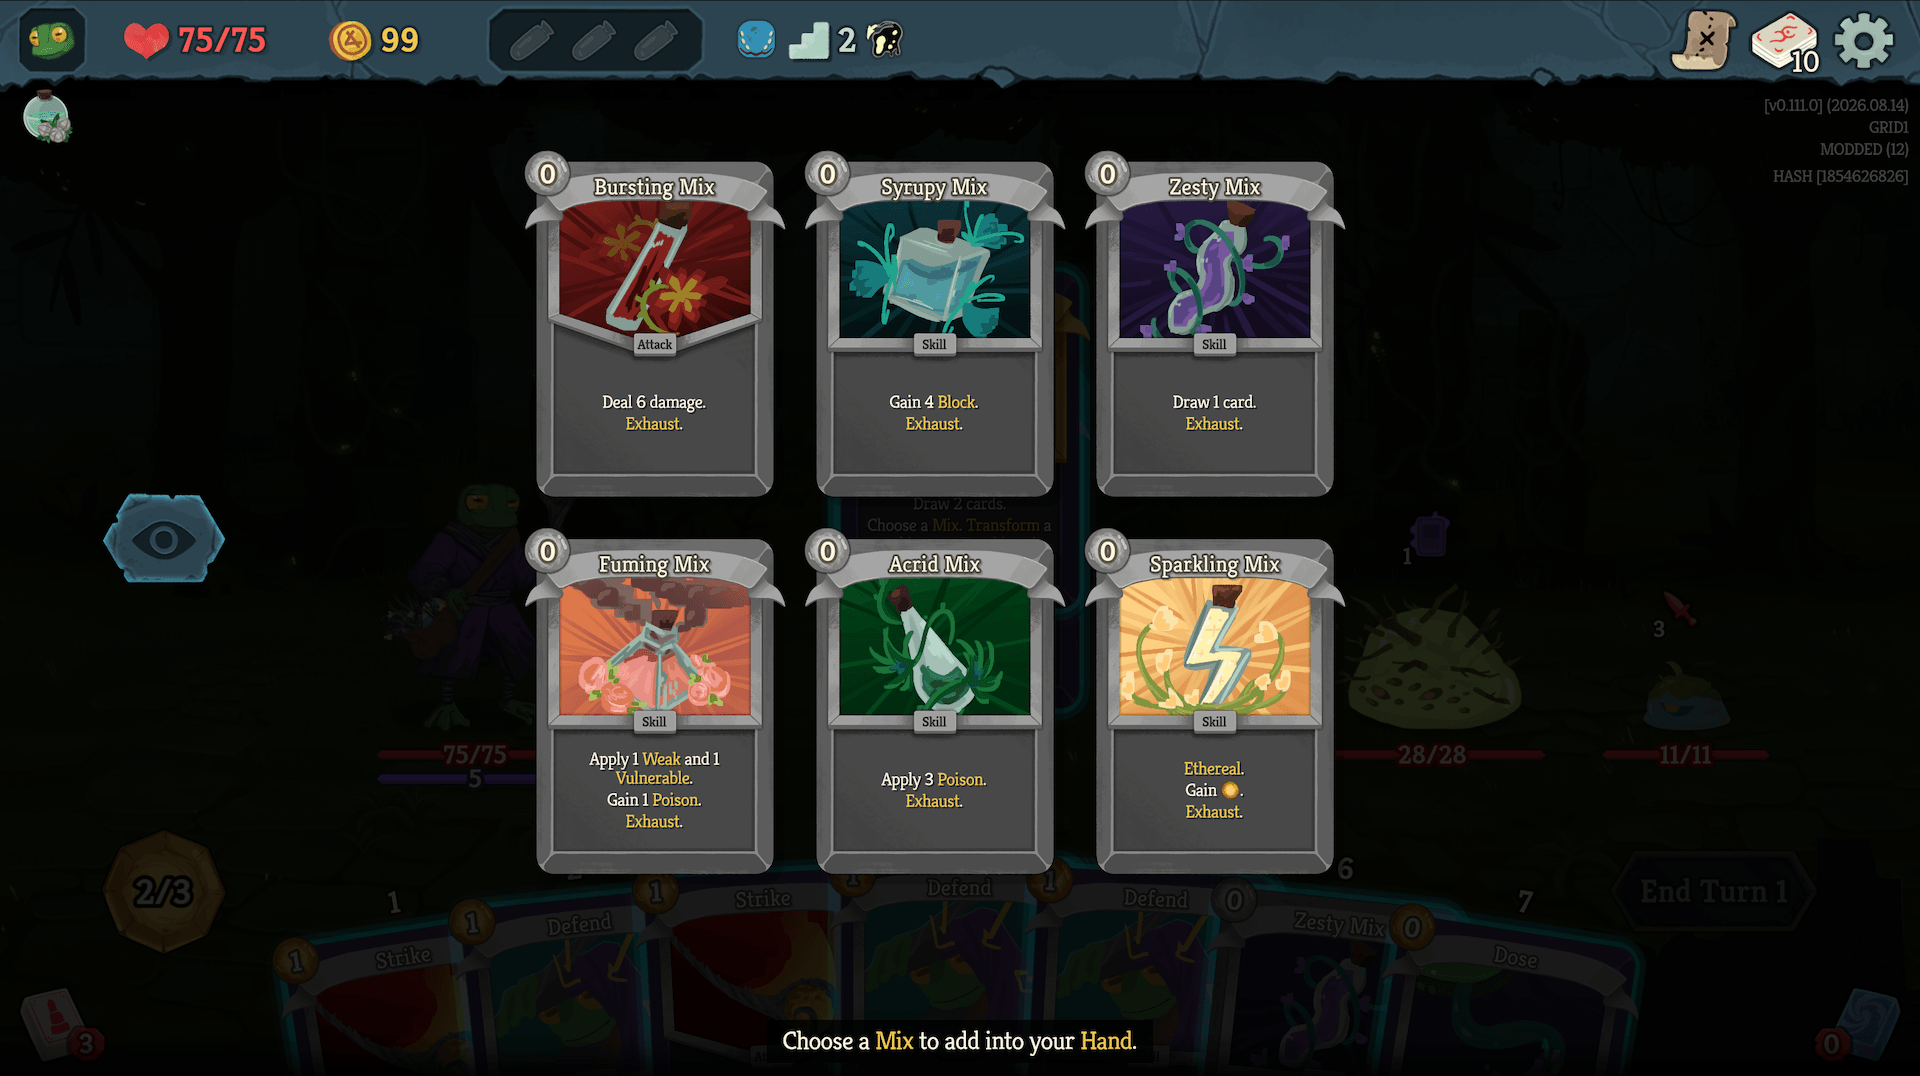
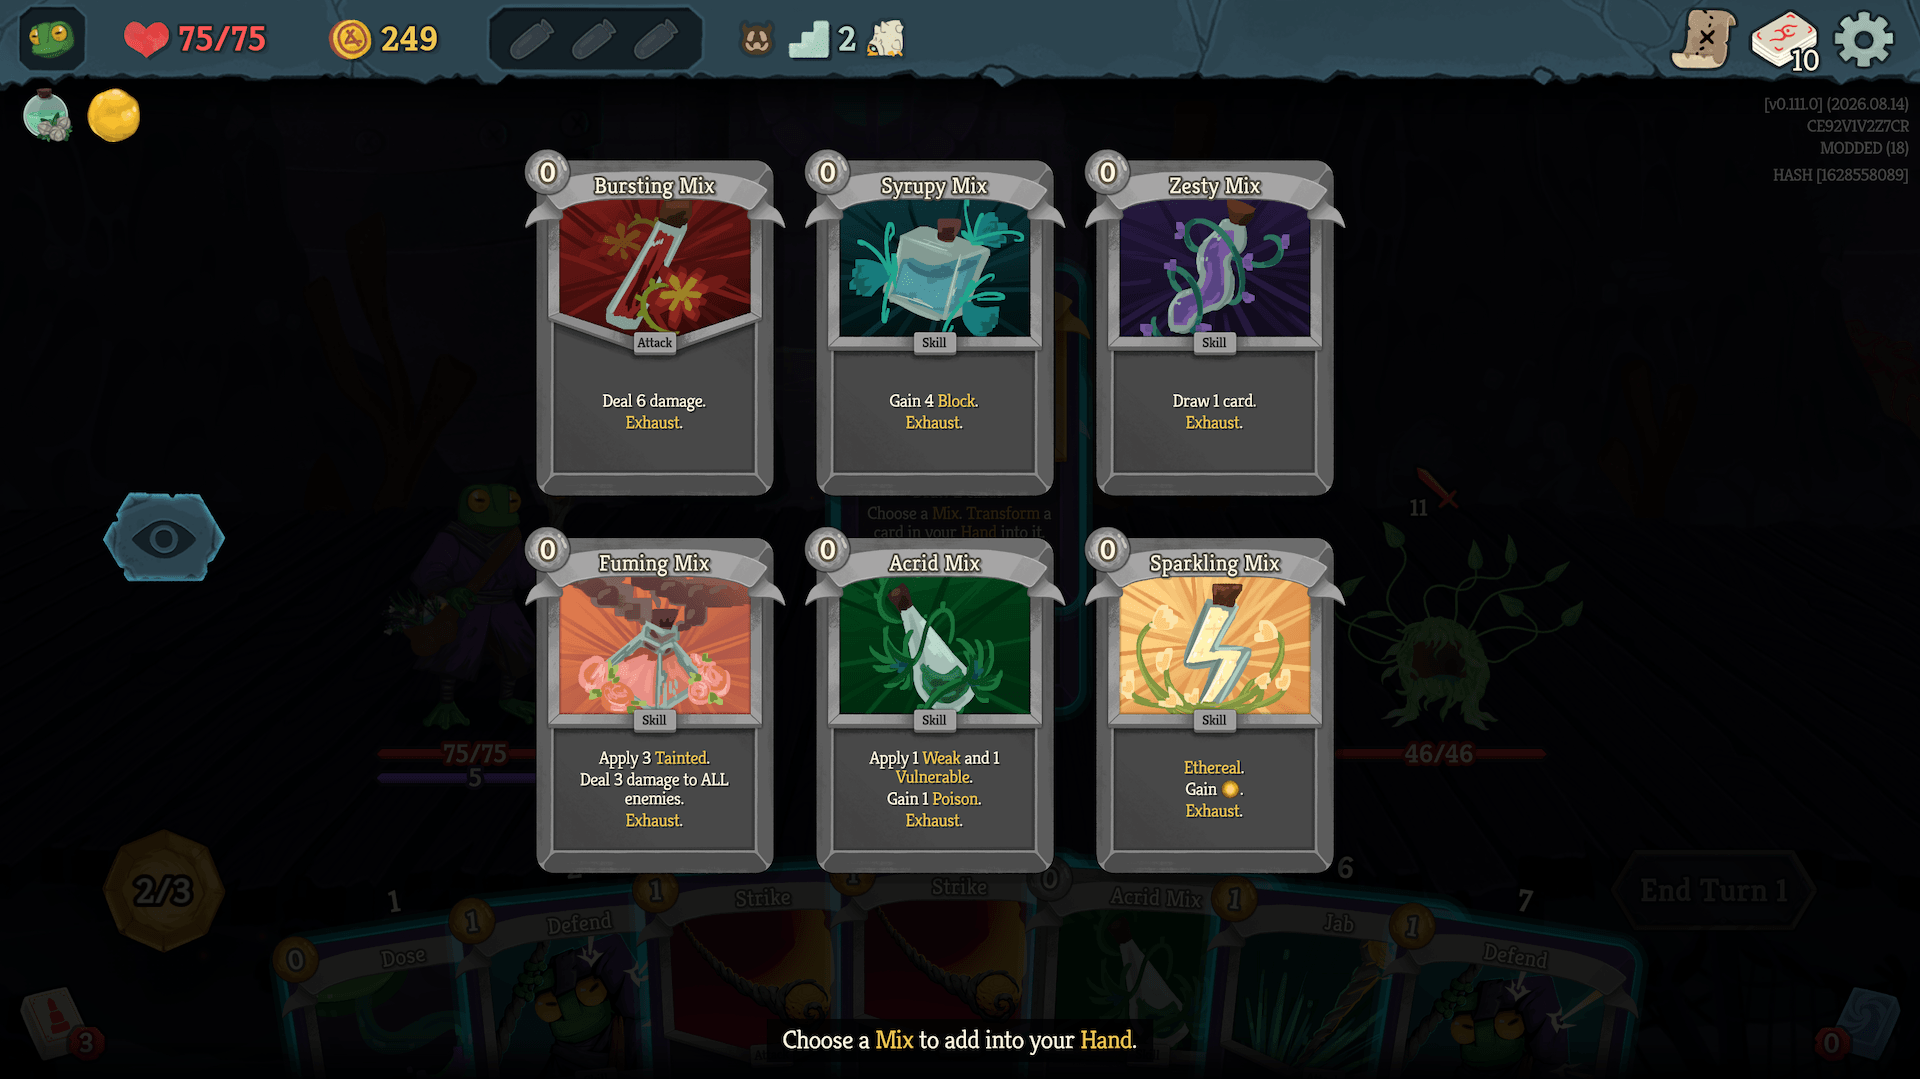
feat: buff fuming mix

diff --git a/AlchemistCode/Cards/Token/FumingMix.cs b/AlchemistCode/Cards/Token/FumingMix.cs
@@ -9,7 +9,8 @@ namespace Alchemist.AlchemistCode.Cards.Token;
 
 // The base game's Tainted power, which only the Vital Spark affliction applies and only to the
 // player. On an enemy it reads the same way: that much additional damage from every Attack until
-// the end of the enemy turn, so every ally's hits count too
+// the end of the enemy turn, so every ally's hits count too. The fumes then hit everyone: the
+// Tainted lands first, so the target takes the Mix's own damage plus its fresh stacks
 [Pool(typeof(TokenCardPool))]
 [CardTheme(CardTheme.Mix)]
 public class FumingMix : AlchemistCard
@@ -18,13 +19,20 @@ public class FumingMix : AlchemistCard
 
     public FumingMix() : base(0, CardType.Skill, CardRarity.Token, TargetType.AnyEnemy)
     {
-        WithPower<TaintedPower>(2, 1);
+        WithPower<TaintedPower>(3, 1);
+        WithDamage(3, 1);
         WithKeyword(CardKeyword.Exhaust);
     }
 
     protected override async Task OnPlay(PlayerChoiceContext choiceContext, CardPlay play)
     {
-        if (play.Target is not { IsAlive: true } target) return;
-        await PowerCmd.Apply<TaintedPower>(choiceContext, target, DynamicVars["TaintedPower"].IntValue, Owner.Creature, this);
+        if (CombatState == null) return;
+        if (play.Target is { IsAlive: true } target)
+            await PowerCmd.Apply<TaintedPower>(choiceContext, target, DynamicVars["TaintedPower"].IntValue, Owner.Creature, this);
+        await DamageCmd.Attack(DynamicVars.Damage.IntValue)
+            .WithHitFx(HitVfx("vfx/vfx_sandy_impact"))
+            .FromCard(this, play)
+            .TargetingAllOpponents(CombatState)
+            .Execute(choiceContext);
     }
 }

diff --git a/CHANGELOG.md b/CHANGELOG.md
@@ -7,8 +7,10 @@ mod).
 
 ## [Unreleased]
 
-- Added Ancients Awakened cross-mod support: its Ancient Scepter turns the Alchemist's Strikes and Defends into Potent Strikes and Potent Defends, and its Experimental Serum gives Quintessence
+### Added
+
 - Added a Ferment indicator: Ferment cards show the turns Fermented in their top right corner in Hand, Draw, Discard, and Exhaust piles
+- Added Ancients Awakened cross-mod support: its Ancient Scepter turns the Alchemist's Strikes and Defends into Potent Strikes and Potent Defends, and its Experimental Serum gives Quintessence
 - Added Gold Leaf potion (Brew only): "Add Replay to a card in your Hand."
 - Added Potent Defend card (Ancients Awakened): "Gain 5 (8) Block. Add a random Mix into your Hand."
 - Added Potent Strike card (Ancients Awakened): "Laced. Gain 1 Poison. Gain 1 Antitoxin. Deal 6 (9) damage."
@@ -17,10 +19,17 @@ mod).
 - Added The Hero Expansion cross-mod support: its Broken Blade transforms into The Steeped Blade for the Alchemist, and its Mysterious Flashlight gives Reconstitute
 - Added the Laced keyword: "This card deals additional damage equal to your Poison." Jab, Forked Tongue, Lash Out, Wormwood and Potent Strike print it in place of the sentence
 - Added The Steeped Blade card (Hero Expansion): "Retain. Ferment. Deal 9 (12) damage. This card Ferments 1. Whenever this card Ferments, apply Poison to ALL enemies equal to its Fermentation."
+
+### Changed
+
 - Buffed Anodyne potion: Poison gained per damage prevented 1 per 5 -> 1 per 10
+- Buffed Fuming Mix: Tainted applied 2(3) -> 3(4), and it also deals 3 (4) damage to ALL enemies
 - Buffed Solvent potion: it also applies 2 Vulnerable to ALL enemies
 - Reworked Backfire: "Deal 4 (6) damage. If you have Poison, apply 1 (2) Weak." (1 -> 0 energy)
 - Reworked Reclaim: "Apply Poison to ALL enemies equal to the number of Mixes you have played this combat. Exhaust."
+
+### Fixed
+
 - Fixed Proof and Nightcap damage previews: they now count the target's debuffs such as Tainted and Vulnerable while aiming
 
 ## [0.14.14] - 2026-09-17
